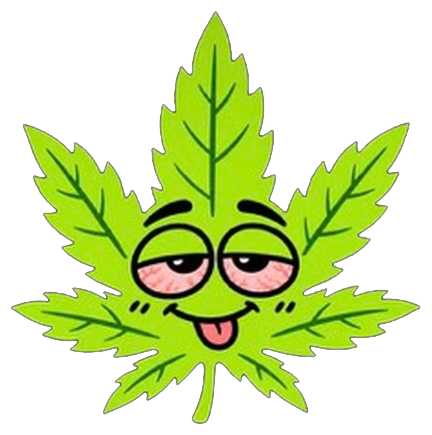
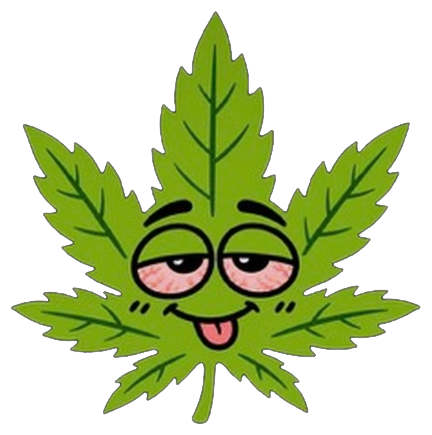
Map inset in Visit column, concentrates photo-first, Sage leaf deepened

diff --git a/index.html b/index.html
@@ -312,6 +312,12 @@ tailwind.config = { theme: { extend: {
         <a href="https://www.google.com/maps/search/?api=1&query=Cushman+Cannabis+Company+217+West+Moses+Street+Cushing+OK+74023" target="_blank" rel="noopener" class="btn-forest rounded-full px-7 py-3.5 text-sm tracking-wide">Get Directions</a>
         <a href="https://weedmaps.com/dispensaries/cushman-cannabis-company" target="_blank" rel="noopener" class="btn-ghost rounded-full px-7 py-3.5 text-sm tracking-wide font-semibold">Order Ahead</a>
       </div>
+      <div class="mt-8">
+        <div class="rounded-3xl overflow-hidden" style="background:#fffdf4;border:1px solid #ded2b4;box-shadow:0 14px 30px -22px rgba(32,48,30,.35)">
+          <iframe title="Map — Cushman Cannabis & Company, 217 West Moses Street, Cushing, OK" src="https://www.google.com/maps?q=Cushman%20Cannabis%20Company%2C%20217%20West%20Moses%20Street%2C%20Cushing%2C%20OK%2074023&z=15&output=embed" class="w-full h-[240px] block" style="border:0" loading="lazy" allowfullscreen referrerpolicy="no-referrer-when-downgrade"></iframe>
+        </div>
+        <p class="text-[.68rem] tracking-[.18em] mt-3" style="color:#8a7a52">217 WEST MOSES STREET · CUSHING, OK 74023 — TAP THE MAP TO EXPLORE</p>
+      </div>
     </div>
     <div class="reveal md:col-span-3">
       <div class="rounded-3xl p-7 md:p-9" style="background:#fffdf4;border:1px solid #ded2b4;box-shadow:0 14px 30px -22px rgba(32,48,30,.35)">
@@ -328,12 +334,7 @@ tailwind.config = { theme: { extend: {
         <p id="openStatus" class="mt-6 text-sm font-semibold" style="color:#2e5233"></p>
       </div>
     </div>
-  <div class="reveal md:col-span-5">
-      <div class="rounded-3xl overflow-hidden" style="background:#fffdf4;border:1px solid #ded2b4;box-shadow:0 14px 30px -22px rgba(32,48,30,.35)">
-        <iframe title="Map — Cushman Cannabis & Company, 217 West Moses Street, Cushing, OK" src="https://www.google.com/maps?q=Cushman%20Cannabis%20Company%2C%20217%20West%20Moses%20Street%2C%20Cushing%2C%20OK%2074023&z=15&output=embed" class="w-full h-[320px] md:h-[380px] block" style="border:0" loading="lazy" allowfullscreen referrerpolicy="no-referrer-when-downgrade"></iframe>
-      </div>
-      <p class="text-[.72rem] tracking-[.18em] mt-4" style="color:#8a7a52">217 WEST MOSES STREET · CUSHING, OK 74023 — TAP THE MAP TO EXPLORE, OR HIT GET DIRECTIONS ABOVE</p>
-    </div>
+  
     </div>
 </section>
 
@@ -683,16 +684,23 @@ function render(){
   if(activeCat==="all" && !q){
     grid.classList.add("hidden"); sectionsEl.classList.remove("hidden");
     sectionsEl.innerHTML = CATS.slice(1).map(c => {
-      const items = all.filter(p => p.c===c.id);
+      let items = all.filter(p => p.c===c.id);
       if(!items.length) return "";
+      let front = PER_SHELF;
+      if(c.id === "concentrates"){
+        const withPic = items.filter(p => p.i && p.i.startsWith("http"));
+        const noPic = items.filter(p => !(p.i && p.i.startsWith("http")));
+        items = [...withPic, ...noPic];
+        front = withPic.length || PER_SHELF;
+      }
       const cards = items.map((p,j) => {
         const h = cardHTML(p, p._i);
-        return (j >= PER_SHELF && !expandedShelves.has(c.id)) ? h.replace('class="card ', 'class="card morec hidden ') : h;
+        return (j >= front && !expandedShelves.has(c.id)) ? h.replace('class="card ', 'class="card morec hidden ') : h;
       }).join("");
-      const btn = items.length > PER_SHELF ? `<div class="text-center mt-7"><button class="seemore pill rounded-full px-7 py-3 text-[.8rem] tracking-wide" data-seemore="${c.id}" data-n="${items.length}" data-label="${c.label}">${expandedShelves.has(c.id) ? "Show less ↑" : "See all " + items.length + " " + c.label + " ↓"}</button></div>` : "";
+      const btn = items.length > front ? `<div class="text-center mt-7"><button class="seemore pill rounded-full px-7 py-3 text-[.8rem] tracking-wide" data-seemore="${c.id}" data-n="${items.length}" data-label="${c.label}">${expandedShelves.has(c.id) ? "Show less ↑" : "See all " + items.length + " " + c.label + " ↓"}</button></div>` : "";
       return `<div class="shelf mb-14"><div class="flex items-end justify-between gap-4 mb-5"><h3 class="font-display text-2xl md:text-3xl font-semibold">${c.label}</h3><span class="text-[.68rem] tracking-[.22em] font-semibold" style="color:#8a6420">${items.length} PRODUCTS</span></div><div class="grid grid-cols-1 sm:grid-cols-2 lg:grid-cols-3 xl:grid-cols-4 gap-5">${cards}</div>${btn}</div>`;
     }).join("");
-    countEl.textContent = PRODUCTS.length + " PRODUCTS · " + PER_SHELF + " PER SHELF UP FRONT · TAX INCLUDED";
+    countEl.textContent = PRODUCTS.length + " PRODUCTS · TAX INCLUDED";
     emptyEl.classList.add("hidden");
     wireCards(sectionsEl);
     sectionsEl.querySelectorAll("[data-seemore]").forEach(b => b.addEventListener("click", () => {
